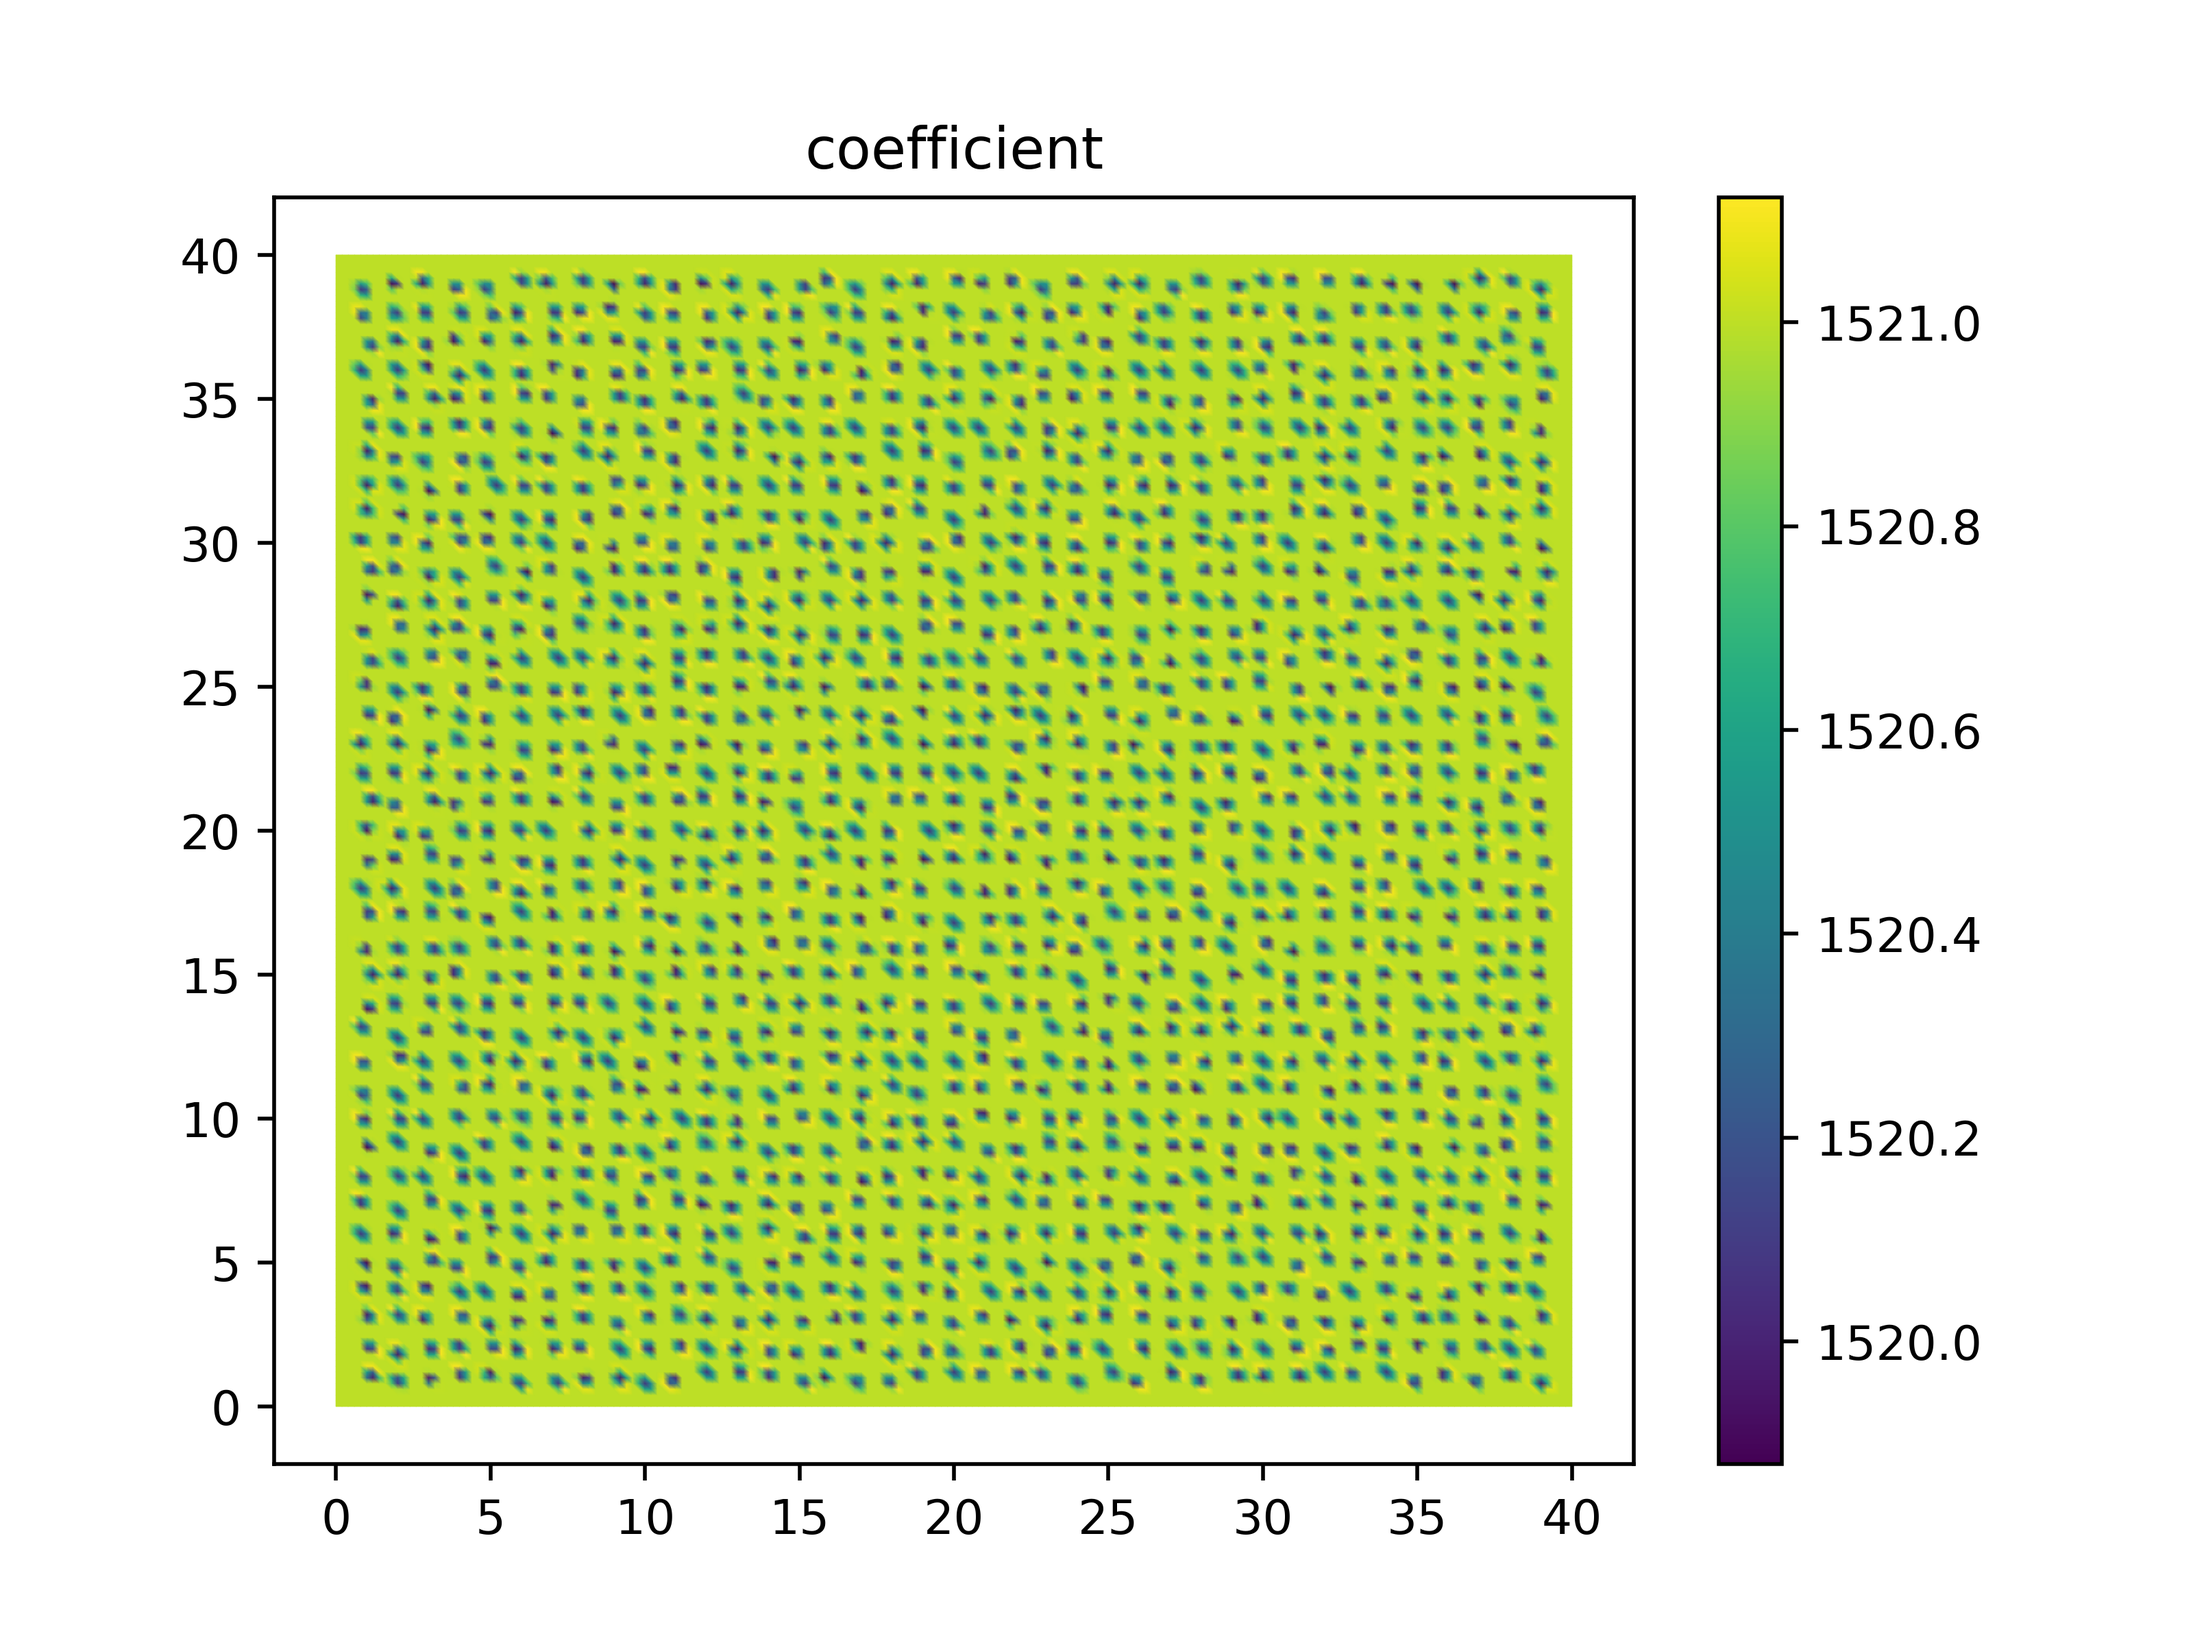
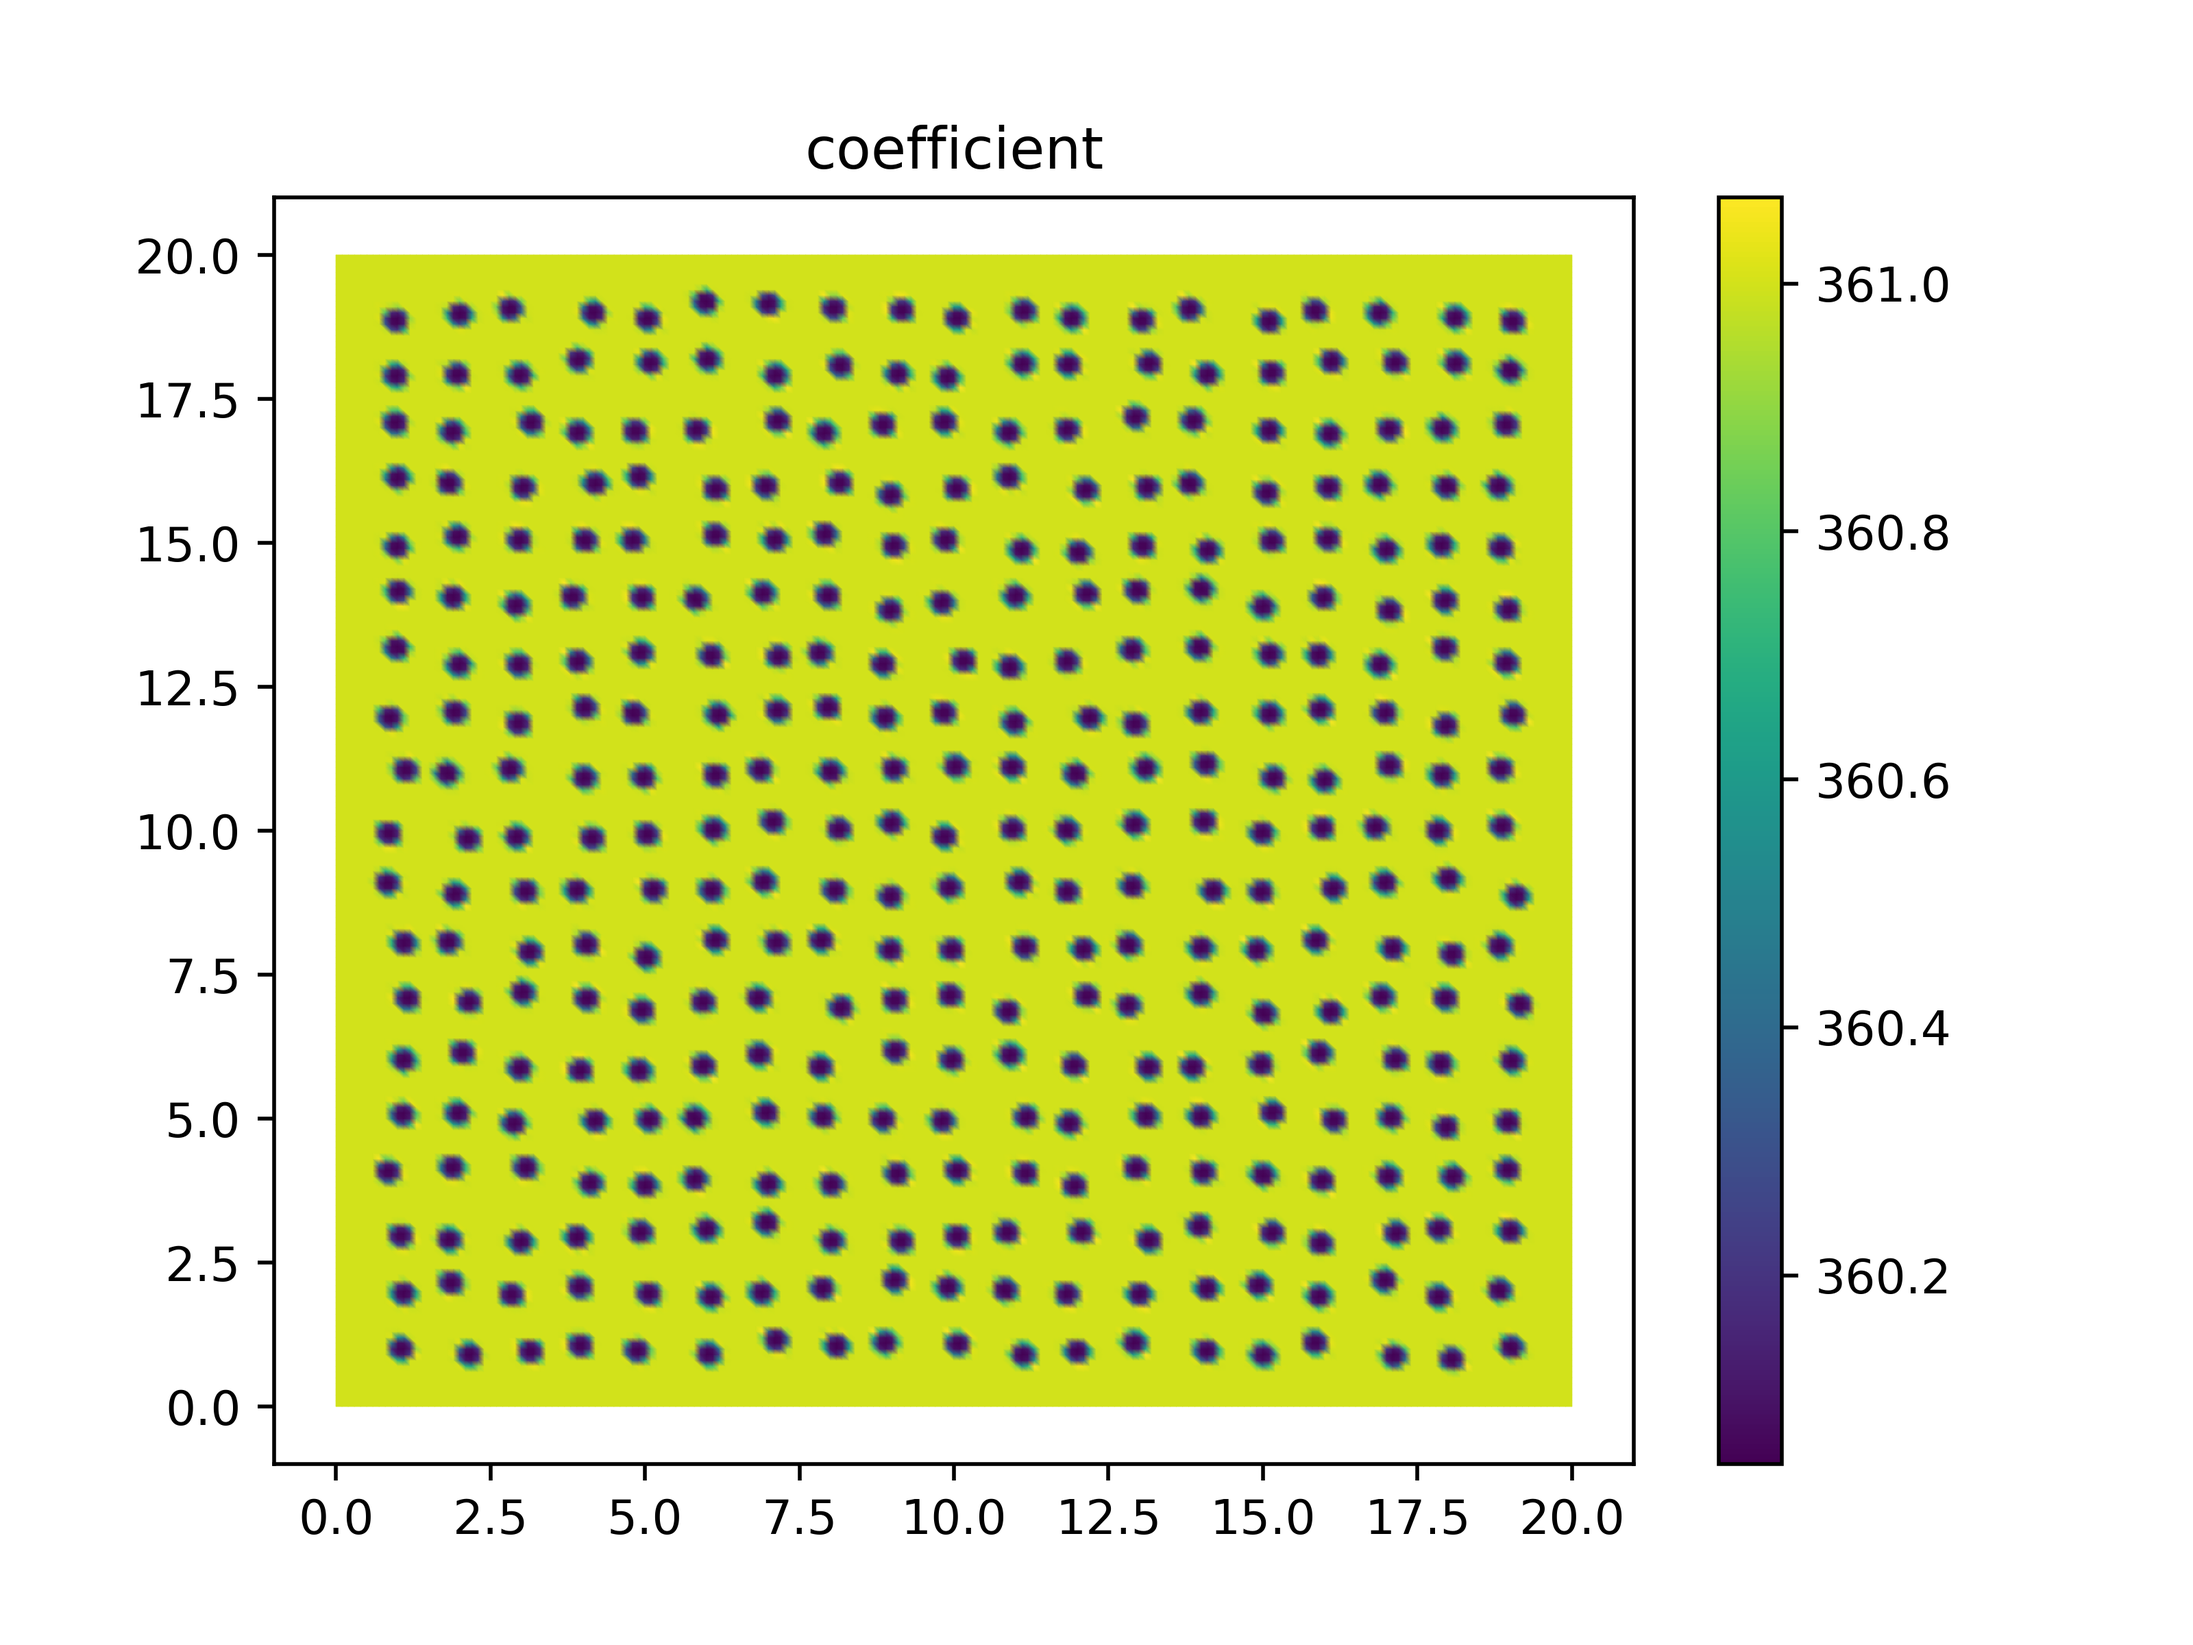
update

diff --git a/2d/test.py b/2d/test.py
@@ -7,7 +7,7 @@ from slepc4py import SLEPc
 import numpy as np
 from solver import *
 deg = 5
-L=40 # length of square
+L=20 # length of square
 nx=100
 ny=100
 mesh = SquareMesh(nx,ny,L)
@@ -20,12 +20,12 @@ U2 = np.random.uniform(size = nn**2)
 r = 0.2
 dn1 = r * np.sqrt(U2) * np.cos(2 * np.pi * U1)
 dn2 = r * np.sqrt(U2) * np.sin(2 * np.pi * U1)
-A=Function(FunctionSpace(mesh, 'CG', 3))
+A=Function(FunctionSpace(mesh, 'CG', 7))
 for i in range(0,nn):
    for j in range(0,nn):
       x_center=[i+1+dn1[i*nn+j],j+1+dn2[i*nn+j]]
       fi= conditional(((x-x_center[0])**2+(y-x_center[1])**2)**0.5>s,0,20*(1-((x-x_center[0])**2+(y-x_center[1])**2)/pow(s,2))**3*(3*((x-x_center[0])**2+(y-x_center[1])**2)+1))
-      Fi=assemble(interpolate(1.0/(1.0+fi), FunctionSpace(mesh, 'CG', 3)))
+      Fi=assemble(interpolate(1.0/(1.0+fi), FunctionSpace(mesh, 'CG', 7)))
       A+=Fi
 #print('defining coefficients')
 #A=assemble(interpolate(1.0/(1.0+Fs), FunctionSpace(mesh, 'CG', 3)))
